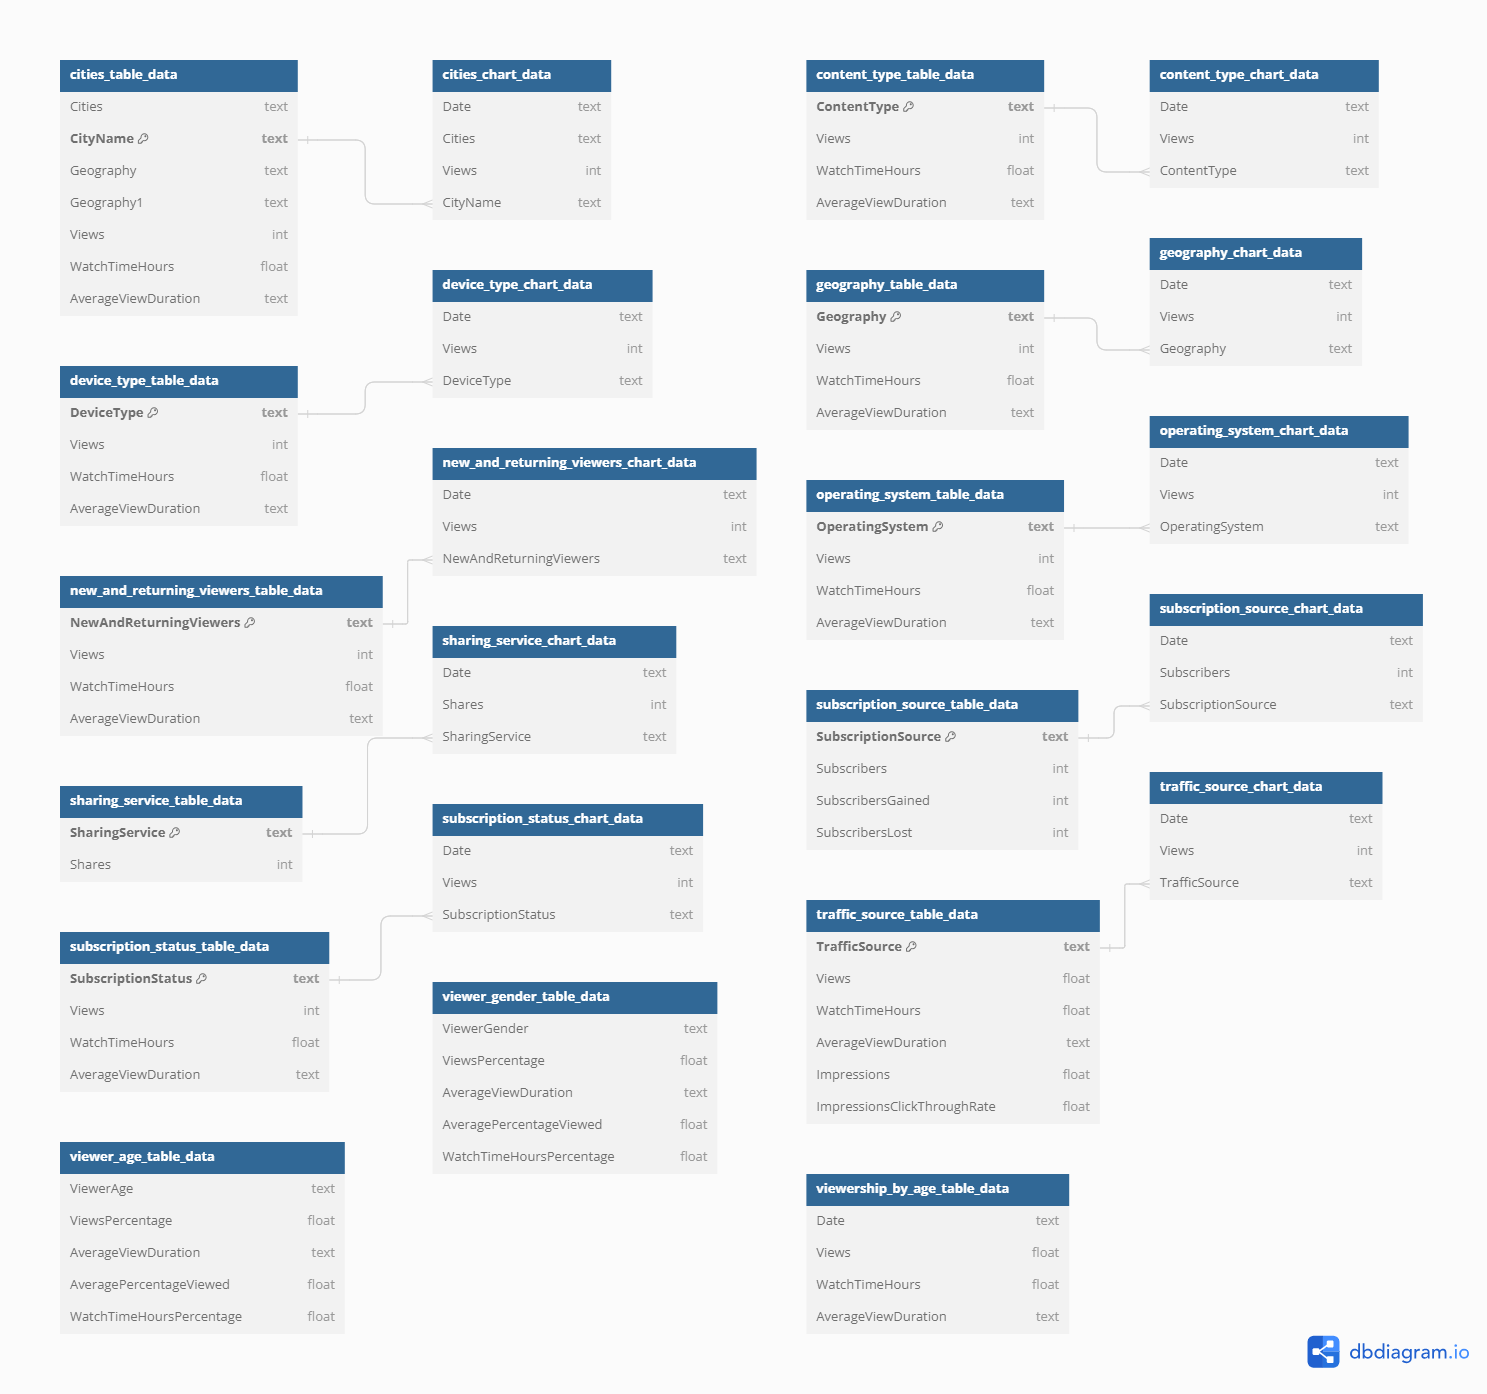
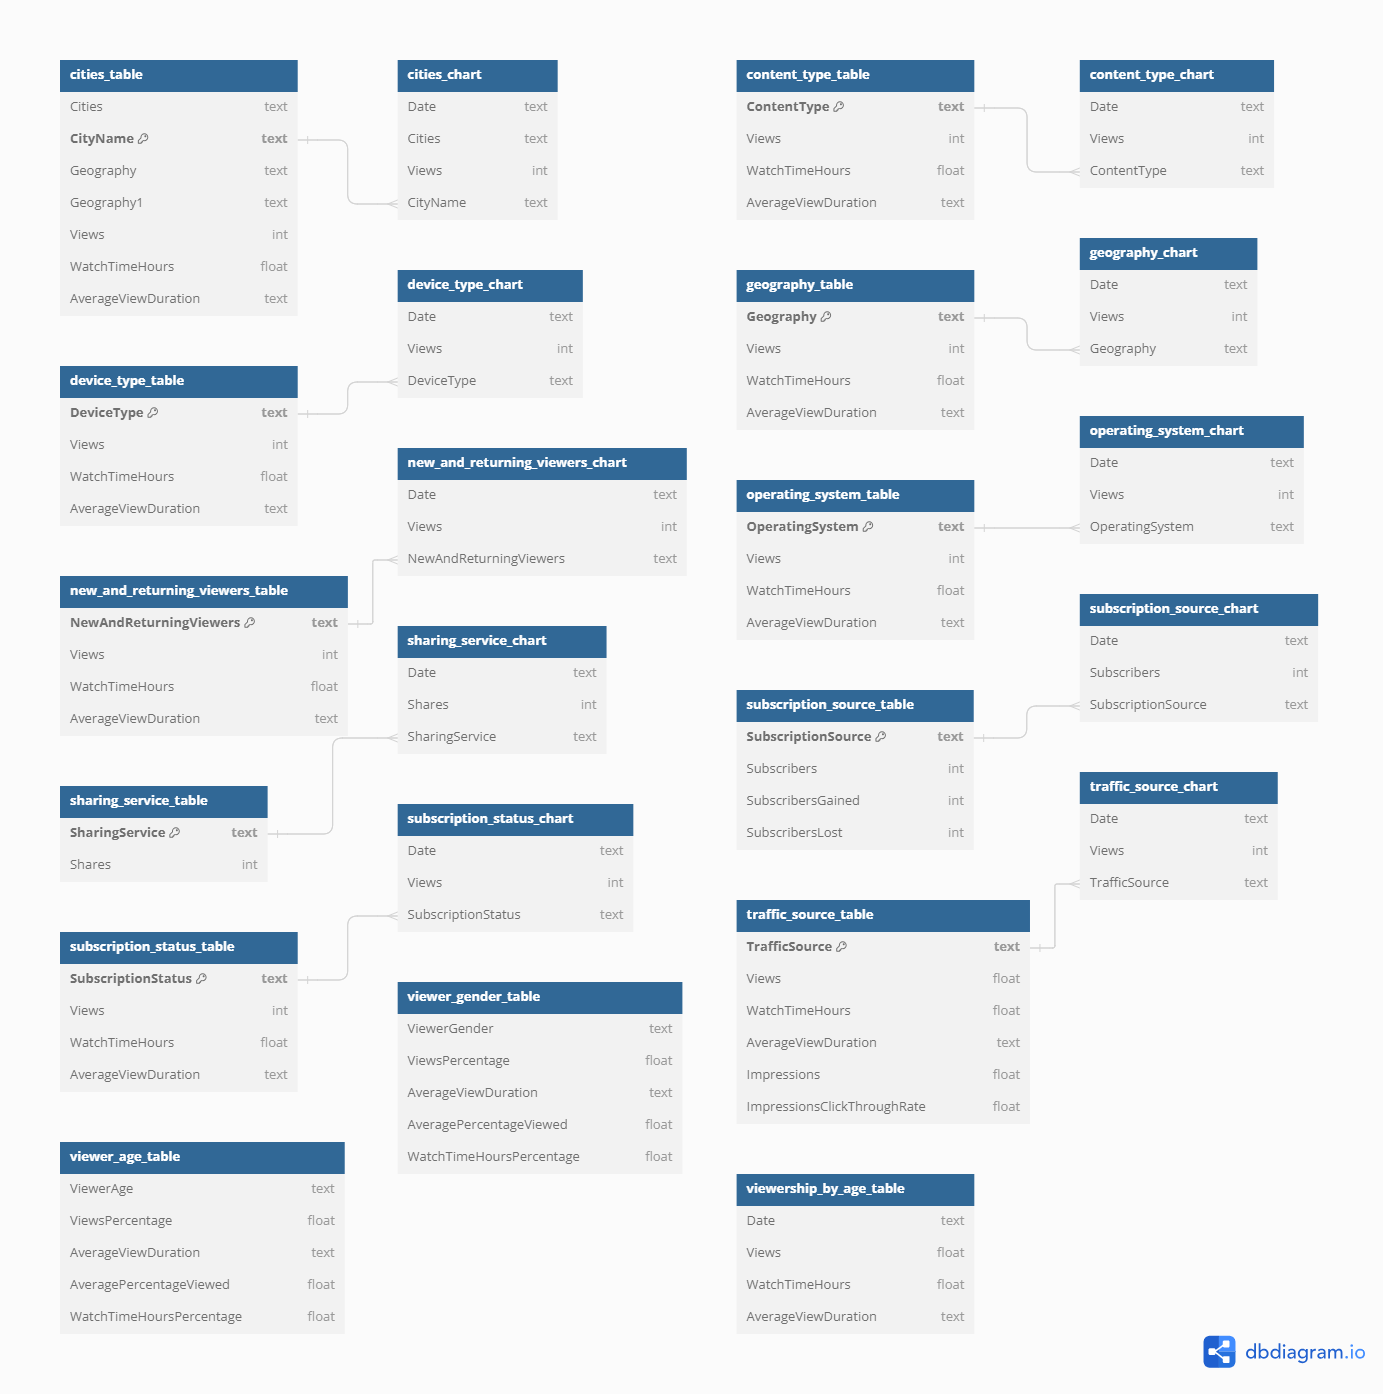
Renaming table names

diff --git a/database/data_loading.py b/database/data_loading.py
@@ -75,53 +75,53 @@ db_params = {
 }
 
 # Load data into tables
-load_data('content_type_table_data', 'data/Content type/Table data.csv', db_params)
-load_data('content_type_chart_data', 'data/Content type/Chart data.csv', db_params)
+load_data('content_type_table', 'data/Content type/Table data.csv', db_params)
+load_data('content_type_chart', 'data/Content type/Chart data.csv', db_params)
 
 
 # Load data for Device type
-load_data('device_type_table_data', 'data/Device type/Table data.csv',db_params)
-load_data('device_type_chart_data', 'data/Device type/Chart data.csv',db_params)
+load_data('device_type_table', 'data/Device type/Table data.csv',db_params)
+load_data('device_type_chart', 'data/Device type/Chart data.csv',db_params)
 
 # Load data for Geography
-load_data('geography_table_data', 'data/Geography/Table data.csv',db_params)
-load_data('geography_chart_data', 'data/Geography/Chart data.csv',db_params)
+load_data('geography_table', 'data/Geography/Table data.csv',db_params)
+load_data('geography_chart', 'data/Geography/Chart data.csv',db_params)
 
 # Load data for New and returning viewers
-load_data('new_and_returning_viewers_table_data', 'data/New and returning viewers/Table data.csv',db_params)
-load_data('new_and_returning_viewers_chart_data', 'data/New and returning viewers/Chart data.csv',db_params)
+load_data('new_and_returning_viewers_table', 'data/New and returning viewers/Table data.csv',db_params)
+load_data('new_and_returning_viewers_chart', 'data/New and returning viewers/Chart data.csv',db_params)
 
 # Load data for Viewership by Date
-load_data('viewership_by_date_table_data', 'data/Viewership by Date/Table data.csv',db_params)
+load_data('viewership_by_date_table', 'data/Viewership by Date/Table data.csv',db_params)
 
 # Load data for Viewer gender
-load_data('viewer_gender_table_data', 'data/Viewer gender/Table data.csv',db_params)
+load_data('viewer_gender_table', 'data/Viewer gender/Table data.csv',db_params)
 
 # Load data for Viewer age
-load_data('viewer_age_table_data', 'data/Viewer age/Table data.csv',db_params)
+load_data('viewer_age_table', 'data/Viewer age/Table data.csv',db_params)
 
 # Load data for Traffic source
-load_data('traffic_source_table_data', 'data/Traffic source/Table data.csv',db_params)
-load_data('traffic_source_chart_data', 'data/Traffic source/Chart data.csv',db_params)
+load_data('traffic_source_table', 'data/Traffic source/Table data.csv',db_params)
+load_data('traffic_source_chart', 'data/Traffic source/Chart data.csv',db_params)
 
 # Load data for Subtitles and CC
-load_data('subtitles_and_cc_table_data', 'data/Subtitles and CC/Table data.csv',db_params)
-load_data('subtitles_and_cc_chart_data', 'data/Subtitles and CC/Chart data.csv',db_params)
+load_data('subtitles_and_cc_table', 'data/Subtitles and CC/Table data.csv',db_params)
+load_data('subtitles_and_cc_chart', 'data/Subtitles and CC/Chart data.csv',db_params)
 
 # Load data for Subscription status
-load_data('subscription_status_table_data', 'data/Subscription status/Table data.csv',db_params)
-load_data('subscription_status_chart_data', 'data/Subscription status/Chart data.csv',db_params)
+load_data('subscription_status_table', 'data/Subscription status/Table data.csv',db_params)
+load_data('subscription_status_chart', 'data/Subscription status/Chart data.csv',db_params)
 
 # Load data for Subscription source
-load_data('subscription_source_table_data', 'data/Subscription source/Table data.csv',db_params)
-load_data('subscription_source_chart_data', 'data/Subscription source/Chart data.csv',db_params)
+load_data('subscription_source_table', 'data/Subscription source/Table data.csv',db_params)
+load_data('subscription_source_chart', 'data/Subscription source/Chart data.csv',db_params)
 
 # Load data for Sharing service
-load_data('sharing_service_table_data', 'data/Sharing service/Table data.csv',db_params)
-load_data('sharing_service_chart_data', 'data/Sharing service/Chart data.csv',db_params)
+load_data('sharing_service_table', 'data/Sharing service/Table data.csv',db_params)
+load_data('sharing_service_chart', 'data/Sharing service/Chart data.csv',db_params)
 
 # Load data for Operating system
-load_data('operating_system_table_data', 'data/Operating system/Table data.csv',db_params)
-load_data('operating_system_chart_data', 'data/Operating system/Chart data.csv',db_params)
+load_data('operating_system_table', 'data/Operating system/Table data.csv',db_params)
+load_data('operating_system_chart', 'data/Operating system/Chart data.csv',db_params)
 
 print("All data loaded successfully.")
